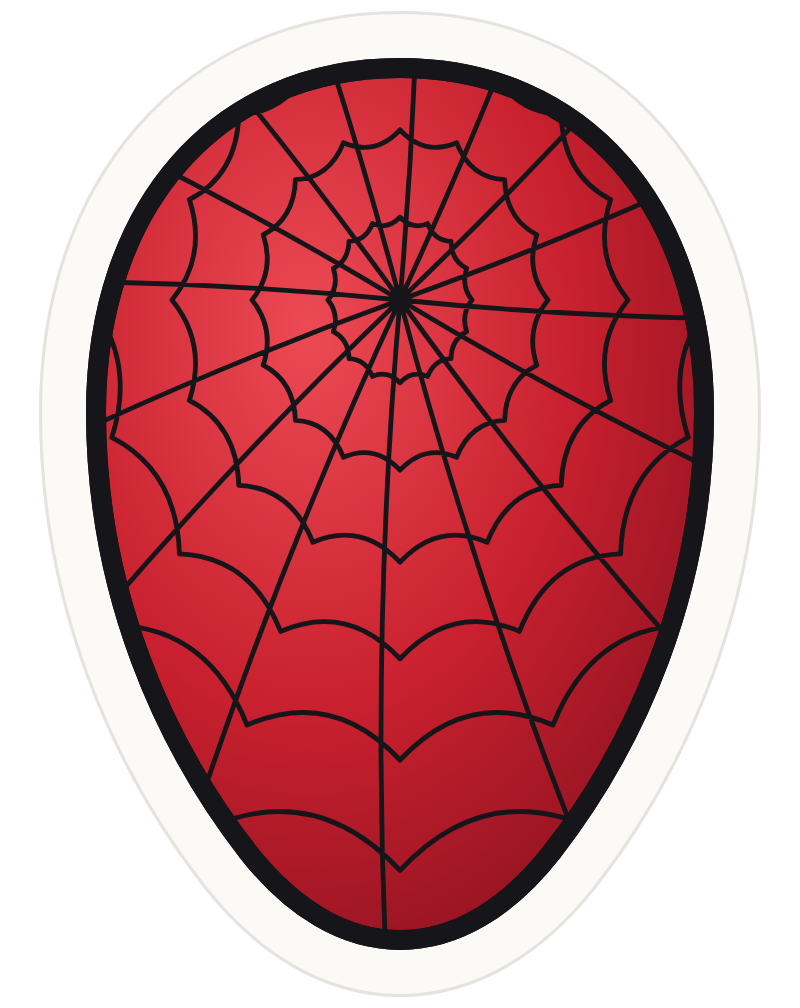
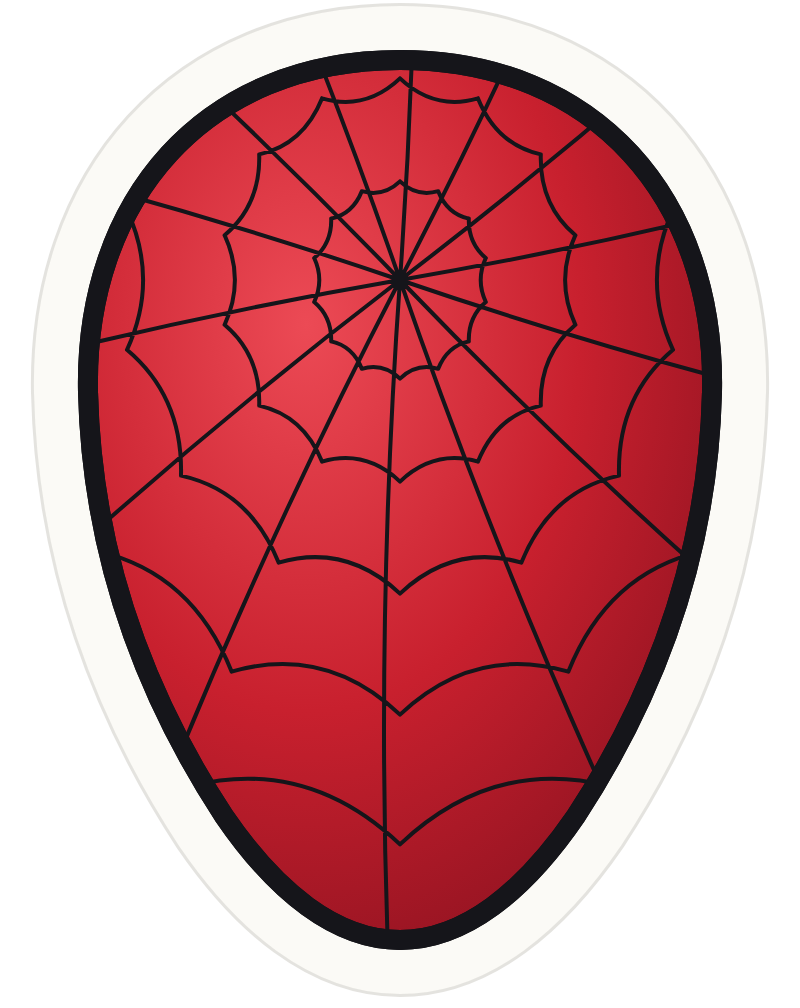
Spider-Man artwork: Ultimate Spider-Man design (mask, angular lenses, V torso, big chest spider, thinner webs)
Claude-Session: https://claude.ai/code/session_0198385Gymj8D5eAjyBu1iwV

diff --git a/tools/art/spiderman.py b/tools/art/spiderman.py
@@ -50,19 +50,18 @@ def svg(w, h, body, defs=""):
 
 
 # ---------------- HEAD ----------------
-HEAD = ("M200 34 C292 34 352 104 352 206 C352 296 318 372 276 426 C254 454 228 470 200 470 "
-        "C172 470 146 454 124 426 C82 372 48 296 48 206 C48 104 108 34 200 34 Z")
+HEAD = ("M200 30 C298 30 358 100 356 196 C354 280 326 350 288 408 C262 446 232 470 200 470 "
+        "C168 470 138 446 112 408 C74 350 46 280 44 196 C42 100 102 30 200 30 Z")  # Ultimate mask: broad cranium, rounded jaw
 
 
-def lens(side, k=0.78):
-    # teardrop lens sweeping up and out from the bridge of the nose (k scales it around the lens center)
-    s = 1 if side > 0 else -1
-    def X(x): return 200 + s * (82 + (x - 82) * k)
-    def Y(y): return 255 + (y - 255) * k
-    path = (f"M{X(18)} {Y(300)} C{X(14)} {Y(262)} {X(40)} {Y(214)} {X(88)} {Y(192)} C{X(120)} {Y(178)} {X(150)} {Y(186)} {X(146)} {Y(214)} "
-            f"C{X(140)} {Y(256)} {X(104)} {Y(300)} {X(62)} {Y(318)} C{X(40)} {Y(326)} {X(20)} {Y(318)} {X(18)} {Y(300)} Z")
-    hi = (f"M{X(60)} {Y(236)} C{X(78)} {Y(214)} {X(104)} {Y(204)} {X(122)} {Y(206)}")
-    return (f'<path d="{path}" fill="{INK}" stroke="{INK}" stroke-width="22" stroke-linejoin="round"/>'
+def lens(side):
+    """Ultimate Spider-Man lens: flat top edge slanting up and out, rounded bottom, thick black border."""
+    s_ = 1 if side > 0 else -1
+    def P(x, y): return f"{200 + s_ * x:.1f} {y:.1f}"
+    path = (f"M{P(14, 300)} L{P(36, 232)} C{P(56, 198)} {P(100, 178)} {P(144, 184)} C{P(160, 188)} {P(160, 210)} {P(150, 236)} "
+            f"C{P(130, 282)} {P(84, 314)} {P(42, 322)} C{P(22, 325)} {P(12, 316)} {P(14, 300)} Z")
+    hi = f"M{P(50, 236)} C{P(66, 214)} {P(98, 200)} {P(128, 200)}"
+    return (f'<path d="{path}" fill="{INK}" stroke="{INK}" stroke-width="26" stroke-linejoin="round"/>'
             f'<path d="{path}" fill="url(#gLens)" stroke="{INK}" stroke-width="6" stroke-linejoin="round"/>'
             f'<path d="{hi}" fill="none" stroke="#ffffff" stroke-width="7" stroke-linecap="round" opacity="0.9"/>')
 
@@ -73,10 +72,10 @@ def head(front):
             f'<stop offset="0.55" stop-color="{RED}"/><stop offset="1" stop-color="{RED_D}"/></radialGradient>'
             '<linearGradient id="gLens" x1="0" y1="0" x2="1" y2="1"><stop offset="0" stop-color="#ffffff"/><stop offset="1" stop-color="#cfd8e6"/></linearGradient>')
     if front:
-        w = web(200, 290, 16, [40, 78, 118, 160, 204, 250], 330, bend=0.05, a0=-math.pi / 2, width=2.4, squash=1.08)
+        w = web(200, 296, 14, [44, 88, 136, 188, 244], 340, bend=0.04, a0=-math.pi / 2, width=2.0, squash=1.06)
         detail = "".join(lens(s) for s in (-1, 1))
     else:
-        w = web(200, 150, 16, [36, 74, 114, 156, 200, 248, 296], 380, bend=0.05, a0=-math.pi / 2, width=2.4, squash=1.15)
+        w = web(200, 140, 14, [44, 90, 140, 194, 252, 312], 400, bend=0.04, a0=-math.pi / 2, width=2.0, squash=1.12)
         detail = ""
     body = cutout(HEAD, "url(#gHead)", ink=10, extra=f'<g clip-path="url(#hc)">{w}</g>{detail}'
                   f'<path d="{HEAD}" fill="none" stroke="{INK}" stroke-width="10" stroke-linejoin="round"/>')
@@ -108,14 +107,19 @@ def narrow(path, k=0.8, cx=200):
     return " ".join(out)
 
 
-TORSO, CHEST, BELT = narrow(TORSO), narrow(CHEST), narrow(BELT)
+TORSO = ("M70 46 C110 22 290 22 330 46 C362 62 372 96 364 140 C352 200 316 262 290 310 C282 330 282 352 288 380 "
+         "L292 440 C292 452 280 460 266 460 L134 460 C120 460 108 452 108 440 L112 380 C118 352 118 330 110 310 "
+         "C84 262 48 200 36 140 C28 96 38 62 70 46 Z")
+CHEST = ("M74 52 C114 32 286 32 326 52 C346 64 350 96 338 128 C318 176 280 214 252 248 C236 268 228 300 226 330 "
+         "L226 376 L174 376 L174 330 C172 300 164 268 148 248 C120 214 82 176 62 128 C50 96 54 64 74 52 Z")
+BELT = "M112 372 C170 364 230 364 288 372 L292 440 C230 450 170 450 108 440 Z"
 
 
 def spider(cx, cy, s, fill=None):
     """Spider emblem. fill=None: solid black (chest); fill=color: that color with a black outline (classic back spider)."""
     legs = [
-        [(8, -30), (60, -70), (128, -96)], [(10, -18), (78, -34), (150, -30)],
-        [(10, 8), (80, 30), (130, 92)], [(8, 24), (52, 84), (82, 160)],
+        [(8, -30), (64, -78), (124, -112)], [(10, -18), (84, -40), (150, -44)],  # long legs up toward the shoulders
+        [(10, 8), (80, 26), (128, 80)], [(8, 24), (50, 84), (70, 158)],
     ]
     def shapes(col, grow):
         out = []
@@ -135,10 +139,10 @@ def spider(cx, cy, s, fill=None):
 
 def torso(front):
     defs = (f'<clipPath id="cc"><path d="{CHEST}"/></clipPath><clipPath id="bc"><path d="{BELT}"/></clipPath><clipPath id="tc"><path d="{TORSO}"/></clipPath>')
-    cy = 150 if front else 168  # the web radiates from the spider
-    w = web(200, cy, 14, [34, 68, 104, 142, 182, 224], 300, bend=0.05, a0=-math.pi / 2, width=2.2, squash=1.0)
-    belt_web = "".join(f'<path d="M{200 + (110 + i * 23 - 200) * 0.8:.1f} 352 L{200 + (108 + i * 23.5 - 200) * 0.8:.1f} 440" stroke="{INK}" stroke-width="2.2"/>' for i in range(9)) + \
-        f'<path d="M100 396 C170 404 230 404 300 396" fill="none" stroke="{INK}" stroke-width="2.2"/>'
+    cy = 150 if front else 160  # the web radiates from the spider
+    w = web(200, cy, 12, [40, 82, 128, 178, 232], 320, bend=0.04, a0=-math.pi / 2, width=2.0, squash=1.0)
+    belt_web = "".join(f'<path d="M{122 + i * 20:.1f} 366 L{120 + i * 20.5:.1f} 448" stroke="{INK}" stroke-width="2"/>' for i in range(9)) + \
+        f'<path d="M108 406 C170 414 230 414 292 406" fill="none" stroke="{INK}" stroke-width="2"/>'
     shading = (f'<path d="{narrow("M300 60 C350 90 340 200 300 290 C290 330 290 380 296 430 L262 446 C270 380 272 320 286 270 C318 190 326 110 300 60 Z")}" fill="{BLUE_D}" opacity="0.55"/>'
                f'<path d="{narrow("M84 70 C64 110 74 170 96 220")}" fill="none" stroke="{BLUE_L}" stroke-width="8" stroke-linecap="round" opacity="0.7"/>')
     muscles = "" if not front else (
@@ -149,7 +153,7 @@ def torso(front):
                   f'<path d="{CHEST}" fill="url(#gRed)" stroke="{INK}" stroke-width="5"/>'
                   f'<g clip-path="url(#cc)">{w}<path d="{narrow("M290 60 C320 120 280 200 240 260 L232 312 L250 312 C262 240 330 150 300 60 Z")}" fill="{RED_D}" opacity="0.4"/></g>'
                   f'<path d="{BELT}" fill="url(#gRed)" stroke="{INK}" stroke-width="5"/><g clip-path="url(#bc)">{belt_web}</g>'
-                  + muscles + '<g clip-path="url(#tc)">' + spider(200, 150 if front else 168, 0.85 if front else 1.25, None if front else RED_L) + '</g>' +
+                  + muscles + '<g clip-path="url(#tc)">' + spider(200, 150 if front else 160, 1.12 if front else 1.3) + '</g>' +
                   f'<path d="{TORSO}" fill="none" stroke="{INK}" stroke-width="10" stroke-linejoin="round"/>')
     return svg(400, 480, body, defs)
 
